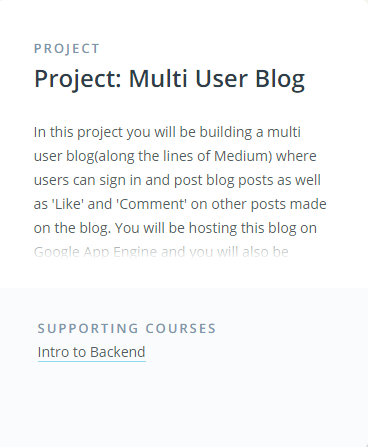
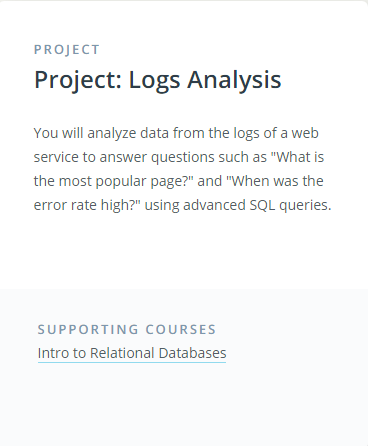
Log analysis project added

Changed region(s): [[0.0897, 0.2623, 0.8967, 0.583], [0.0897, 0.0874, 0.837, 0.2332], [0.0897, 0.6996, 0.6277, 0.8161]]

diff --git a/index.html b/index.html
@@ -94,7 +94,7 @@
                 <!--Third Project details along with my GitHub profile link-->
                 <div class="col-md-4 text-center">
                     <img src="images/project3.png" alt="Project: Multi User Blog" class="img-responsive" data-toggle="modal" data-target="#project3">
-                    <h3>Multi User Blog</h3>
+                    <h3>Log Analysis</h3>
                     <a href="https://github.com/vjvijayg" target="_blank">Project3</a>
                 </div>
             </div>
@@ -108,7 +108,7 @@
                         <div class="modal-body">
                             <img class="img-responsive" src="images/project1.png">
                             <article>
-                                You will write server-side code to store a list of your favorite movies, including box art imagery and a movie trailer URL. You will then serve this data as a web page allowing visitors to review their movies and watch the trailers.
+                                The Movie Trailer website renders the movies list, art imagery and their trailers. Also, allows website users to experience responsive design and watch the Movie Trailers on any device. Please find surce code<a href="https://github.com/vjvijayg/movie_trailer_website" target="_blank"> here</a>
                             </article>
                         </div>
                         <div class="modal-footer">
@@ -127,7 +127,7 @@
                         <div class="modal-body">
                             <img class="img-responsive" src="images/project2.png">
                             <article>
-                                You will be provided with a design mockup as a PDF-file and must replicate that design in HTML and CSS. You will develop a responsive website that will display images, descriptions and links to each of the portfolio projects you will complete throughout the course of the Front-End Web Developer Nanodegree.
+                                Desining a responsive website which has all my technical skills,  personal skills and my featured project work at Udacity. Please find the source code<a href="https://github.com/vjvijayg/Build_A_Portfolio" target="_blank"> here</a> 
                             </article>
                         </div>
                         <div class="modal-footer">
@@ -141,11 +141,11 @@
                 <div class="modal-dialog">
                     <div class="modal-content">
                         <div class="modal-header">
-                            <h4 class="modal-title" id="myModalLabel">Multi User Blog</h4>
+                            <h4 class="modal-title" id="myModalLabel">Log Analysis</h4>
                         </div>
                         <div class="modal-body">
                             <img class="img-responsive" src="images/project3.png">
-                            <p>In this project you will be building a multi user blog(along the lines of Medium) where users can sign in and post blog posts as well as 'Like' and 'Comment' on other posts made on the blog. You will be hosting this blog on Google App Engine and you will also be creating an authentication system for users to be able to register and sign in and then create blog posts!
+                            <p>Log analysis project is to build an internal reporting tool that will analyze information from the newspaper database to discover what kind of articles the site's readers like. Please find the source code <a href="https://github.com/vjvijayg/Log_Analysis" target="blank"> here</a>
                             </p>
                         </div>
                         <div class="modal-footer">
